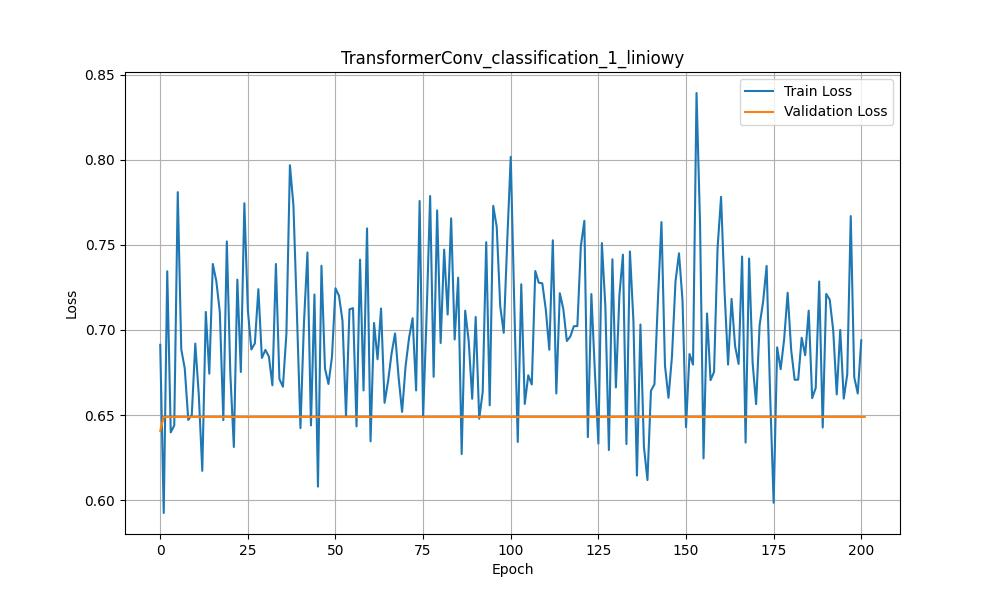
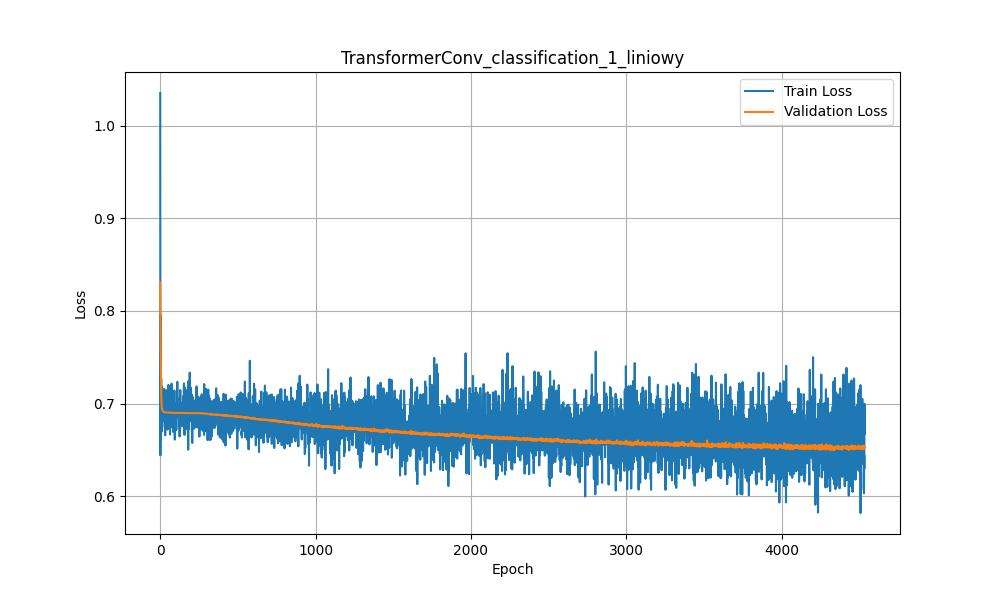
all

diff --git a/Zadanie 3/src/main.py b/Zadanie 3/src/main.py
@@ -25,10 +25,10 @@ MODELS_PATH = os.path.join(os.path.dirname(SRC_PATH), "models")
 
 DEVICE = torch.device('cuda' if torch.cuda.is_available() else 'cpu')
 
-BATCH_SIZE:     int   = 64
-LEARNING_RATE:  float = 1e-10
+BATCH_SIZE:     int   = 128
+LEARNING_RATE:  float = 1e-4
 TRAIN:          bool = True
-CONTINUE_TRAIN: bool = True
+CONTINUE_TRAIN: bool = False
 
 log: list = []
 
@@ -72,15 +72,37 @@ class FaceIDModel(pl.LightningModule):
         # print(f"Training: {y.shape}, y={y}")
         # print(f"Training y_hat: {y_hat.shape}, y_hat={y_hat}")
 
+        reg_lambda = 1e-4  # współczynnik regularyzacji L2
+
         if self.task_type == 'classification':
-            # y_hat = (y_hat > 0.5).long()
-            # print(f"Training classification y_hat: {y_hat.shape}, y_hat={y_hat}")
             y = y.squeeze().long()
-            loss = nn.CrossEntropyLoss()(y_hat, y)
+            ce_loss = nn.CrossEntropyLoss()(y_hat, y)
             
+            l2_reg = torch.tensor(0., device=y_hat.device)
+            for param in self.parameters():
+                l2_reg += torch.norm(param, 2)
+            
+            loss = ce_loss + reg_lambda * l2_reg
+
         elif self.task_type == 'regression':
             y = y.squeeze().float()
-            loss = nn.MSELoss()(y_hat, y)
+            mse_loss = nn.MSELoss()(y_hat, y)
+            
+            l2_reg = torch.tensor(0., device=y_hat.device)
+            for param in self.parameters():
+                l2_reg += torch.norm(param, 2)
+            
+            loss = mse_loss + reg_lambda * l2_reg
+
+        # if self.task_type == 'classification':
+        #     # y_hat = (y_hat > 0.5).long()
+        #     # print(f"Training classification y_hat: {y_hat.shape}, y_hat={y_hat}")
+        #     y = y.squeeze().long()
+        #     loss = nn.CrossEntropyLoss()(y_hat, y)
+            
+        # elif self.task_type == 'regression':
+        #     y = y.squeeze().float()
+        #     loss = nn.MSELoss()(y_hat, y)
 
         self.log("train_loss", loss, prog_bar=True)
     
@@ -133,17 +155,13 @@ def get_data(dataset_name, task_type):
     val_dataset = dataset[val_idx]
     test_dataset = dataset[test_idx]
 
-    # if task_type == "classification":
-    #     filtered_indices = [i for i, data in enumerate(train_dataset) if data.y.item() == 1]
-    #     train_dataset = train_dataset[filtered_indices]
-
     print(f"x type: {type(train_dataset[0].x)} | shape: {train_dataset[0].x.shape if isinstance(train_dataset[0].x, torch.Tensor) else 'Not a tensor'}")
     print(f"edge_index type: {type(train_dataset[0].edge_index)} | shape: {train_dataset[0].edge_index.shape if isinstance(train_dataset[0].edge_index, torch.Tensor) else 'Not a tensor'}")
 
     return (
-        GeoDataLoader(train_dataset, batch_size=BATCH_SIZE, shuffle=False, num_workers=6, persistent_workers=True),
-        GeoDataLoader(val_dataset, batch_size=BATCH_SIZE, num_workers=6, persistent_workers=True),
-        GeoDataLoader(test_dataset, batch_size=BATCH_SIZE, num_workers=6)
+        GeoDataLoader(train_dataset, batch_size=BATCH_SIZE, shuffle=True, num_workers=6, persistent_workers=True, pin_memory=True),
+        GeoDataLoader(val_dataset, batch_size=BATCH_SIZE, num_workers=6, persistent_workers=True, pin_memory=True),
+        GeoDataLoader(test_dataset, batch_size=BATCH_SIZE, num_workers=6, pin_memory=True)
     )
 
 def train_model(model, modelname):
@@ -196,8 +214,8 @@ def train_model(model, modelname):
 def main_transformer_conv() -> None:
 
     EMBEDDINGS:     list  = [1,2]
-    LINEAR_REGRESSION:   list  = [True, False]
-    MODEL_NAME:     list  = ["classification"]#, "regression"]
+    LINEAR_REGRESSION:   list  = [True,False]
+    MODEL_NAME:     list  = ["classification", "regression"]
 
     for model_name_id in MODEL_NAME:
         # loop_count: int = len(LINEAR_REGRESSION) if model_name_id == "regression" else 1
@@ -239,27 +257,34 @@ def main_transformer_conv() -> None:
                     model.eval()
                     model.freeze()
 
-                    # # Plot decision boundary for classification
-                    # if model_name_id == 'classification':
-                    #     generate_decision_boundary(test_loader, model, embed_id, saveModelName)
-                    # else:
-                    #     plot_regression_function(test_loader, model, embed_id, saveModelName)
+                    # Plot decision boundary for classification
+                    if model_name_id == 'classification':
+                        generate_decision_boundary(test_loader, model, embed_id, saveModelName)
+                    else:
+                        plot_regression_function(test_loader, model, embed_id, saveModelName)
 
                     all_predictions = []
                     all_targets = []
 
                     with torch.no_grad():
                         for batch in test_loader:
+                           
                             x, y = batch.x.to(device), batch.y.to(device)
                             edge_index = batch.edge_index.to(device)
 
-                            outputs = model(batch.to(device))
+                            # outputs = model(batch.to(device))
+
+                            embed_output = model.model.embed(batch.to(device))
+                            print(f"MODEL EMBED OUTPUS: {embed_output}")
+                            outputs = model.model.mlp(embed_output)
+                            print(f"MODEL MLP OUTPUS: {outputs}")
 
                             if model_name_id == 'classification':
                                 y = y.squeeze().long()
                                 loss = nn.CrossEntropyLoss()(outputs, y)
                                 probabilities = torch.softmax(outputs, dim=-1)
                                 predictions = probabilities.argmax(dim=-1)
+                                print(f"MODEL : {predictions}")
 
                             elif model_name_id == 'regression':
                                 y = y.squeeze().float()
@@ -275,6 +300,7 @@ def main_transformer_conv() -> None:
                     if model_name_id == 'classification':
                         test_accuracy = (all_predictions == all_targets).float().mean().item() * 100
                         print(f"Test Accuracy: {test_accuracy:.4f}%")
+                        log.append(f"Model: {saveModelName}, Acc: {test_accuracy:.4f}%\n")
 
                         # cm = confusion_matrix(all_targets, all_predictions)
                         # plt.figure(figsize=(8, 6))
@@ -290,12 +316,17 @@ def main_transformer_conv() -> None:
 
                         log.append(f"Model: {saveModelName}, MSE: {mse:.4f}\n")
 
+                    
+
                 model            = None
                 train_loader     = None
                 val_loader       = None
                 saveModelName    = None
                 test_loader      = None
                 model_core       = None
+
+    for element in log:
+        print(element)
 
 def main_gcn_conv() -> None:
 
@@ -430,16 +461,12 @@ def generate_decision_boundary(test_loader, model, embedding_size, model_name):
     all_labels = []
     with torch.no_grad():
         for batch in test_loader:
-            x = batch.x.to(DEVICE).float()
-            edge_index = batch.edge_index.to(DEVICE).long()
+
             batch_labels = batch.y.to(DEVICE)
-            batch_vector = batch.batch.to(DEVICE)
 
-            emb = model.model.conv1(x, edge_index)
-            emb = model.model.conv2(emb, edge_index)
-            emb = model.model.pool(emb, batch_vector)
+            embed_output = model.model.embed(batch.to(DEVICE))
 
-            all_features.append(emb.cpu())
+            all_features.append(embed_output.cpu())
             all_labels.append(batch_labels.cpu())
 
     all_features = torch.cat(all_features, dim=0).numpy()
@@ -460,14 +487,8 @@ def generate_decision_boundary(test_loader, model, embedding_size, model_name):
         grid_tensor = torch.tensor(grid_x, dtype=torch.float32).unsqueeze(1).to(DEVICE)
 
         with torch.no_grad():
-            fc1 = model.fc1 if hasattr(model, "fc1") else model.model.fc1
-            fc2 = model.fc2 if hasattr(model, "fc2") else getattr(model.model, "fc2", None)
-            relu = model.relu if hasattr(model, "relu") else model.model.relu
 
-            out = relu(fc1(grid_tensor))
-            if fc2 is not None:
-                out = fc2(out)
-            out = out
+            out = model.model.mlp(grid_tensor)
 
             # Obsługa różnych wariantów wyjścia modelu:
             if out.shape[1] == 1:
@@ -517,14 +538,17 @@ def generate_decision_boundary(test_loader, model, embedding_size, model_name):
 
         with torch.no_grad():
             # Wywołanie warstw FC modelu
-            fc1 = model.fc1 if hasattr(model, "fc1") else model.model.fc1
-            fc2 = model.fc2 if hasattr(model, "fc2") else getattr(model.model, "fc2", None)
-            relu = model.relu if hasattr(model, "relu") else model.model.relu
 
-            out = relu(fc1(grid_tensor))
-            if fc2 is not None:
-                out = fc2(out)
-            out = out
+            out = model.model.mlp(grid_tensor)
+
+            # fc1 = model.fc1 if hasattr(model, "fc1") else model.model.fc1
+            # fc2 = model.fc2 if hasattr(model, "fc2") else getattr(model.model, "fc2", None)
+            # relu = model.relu if hasattr(model, "relu") else model.model.relu
+
+            # out = relu(fc1(grid_tensor))
+            # if fc2 is not None:
+            #     out = fc2(out)
+            # out = out
 
             # Sprawdzamy wymiar wyjścia
             if out.shape[1] == 1:
@@ -533,6 +557,7 @@ def generate_decision_boundary(test_loader, model, embedding_size, model_name):
             else:
                 # Binary classification (2 wyjścia) lub multi-class
                 preds = torch.softmax(out, dim=-1).argmax(dim=-1)
+                print(preds)
 
             preds = preds.cpu().numpy()
 
@@ -566,15 +591,14 @@ def plot_regression_function(test_loader, model, embedding_size, model_name):
     all_targets = []
     with torch.no_grad():
         for batch in test_loader:
-            x = batch.x.to(DEVICE).float()
-            edge_index = batch.edge_index.to(DEVICE).long()
+
             targets = batch.y.to(DEVICE)
-            batch_vector = batch.batch.to(DEVICE)
-            emb = model.model.conv1(x, edge_index)
-            emb = model.model.conv2(emb, edge_index)
-            emb = model.model.pool(emb, batch_vector)
-            all_features.append(emb.cpu())
+           
+            embed_output = model.model.embed(batch.to(DEVICE))
+            
+            all_features.append(embed_output.cpu())
             all_targets.append(targets.cpu())
+
     all_features = torch.cat(all_features, dim=0).numpy()
     all_targets = torch.cat(all_targets, dim=0).numpy()
     if embedding_size > 2:
@@ -586,16 +610,13 @@ def plot_regression_function(test_loader, model, embedding_size, model_name):
         x_min, x_max = all_features[:,0].min()-margin, all_features[:,0].max()+margin
         grid_x = np.linspace(x_min, x_max, 300)
         grid_tensor = torch.tensor(grid_x, dtype=torch.float32).unsqueeze(1).to(DEVICE)
+
         with torch.no_grad():
-            fc1 = model.fc1 if hasattr(model, "fc1") else model.model.fc1
-            fc2 = model.fc2 if hasattr(model, "fc2") else getattr(model.model, "fc2", None)
-            relu = model.relu if hasattr(model, "relu") else model.model.relu
-            output_activation = model.output_activation if hasattr(model, "output_activation") else model.model.output_activation
-            out = relu(fc1(grid_tensor))
-            if fc2 is not None:
-                out = fc2(out)
-            out = output_activation(out)
+
+            out = model.model.mlp(grid_tensor)
             preds = out.squeeze().cpu().numpy()
+
+
         plt.figure(figsize=(8,6))
         plt.scatter(all_features[:,0], all_targets, color='blue', alpha=0.6, label='Test data')
         plt.plot(grid_x, preds, color='red', linewidth=2, label='Regression function')
@@ -605,6 +626,7 @@ def plot_regression_function(test_loader, model, embedding_size, model_name):
         plt.legend()
         plt.grid(True)
         plt.savefig(CSV_PATH + f"/Regression_Function_{model_name}_1D.jpg")
+        plt.show()
     elif all_features.shape[1] == 2:
         margin = 0.1
         x_min, x_max = all_features[:,0].min()-margin, all_features[:,0].max()+margin
@@ -615,15 +637,10 @@ def plot_regression_function(test_loader, model, embedding_size, model_name):
         grid_points = np.c_[xx.ravel(), yy.ravel()]
         grid_tensor = torch.tensor(grid_points, dtype=torch.float32).to(DEVICE)
         with torch.no_grad():
-            fc1 = model.fc1 if hasattr(model, "fc1") else model.model.fc1
-            fc2 = model.fc2 if hasattr(model, "fc2") else getattr(model.model, "fc2", None)
-            relu = model.relu if hasattr(model, "relu") else model.model.relu
-            output_activation = model.output_activation if hasattr(model, "output_activation") else model.model.output_activation
-            out = relu(fc1(grid_tensor))
-            if fc2 is not None:
-                out = fc2(out)
-            out = output_activation(out)
+
+            out = model.model.mlp(grid_tensor)
             preds = out.squeeze().cpu().numpy()
+
         preds = preds.reshape(xx.shape)
         from mpl_toolkits.mplot3d import Axes3D
         fig = plt.figure(figsize=(10,8))
@@ -636,10 +653,9 @@ def plot_regression_function(test_loader, model, embedding_size, model_name):
         ax.set_zlabel("Target")
         plt.legend()
         plt.savefig(CSV_PATH + f"/Regression_Function_{model_name}_2D.jpg")
+        plt.show()
 
 if __name__ == "__main__":
     
 #    main_gcn_conv()
    main_transformer_conv()
-
-   print(log)

diff --git a/Zadanie 3/src/model.py b/Zadanie 3/src/model.py
@@ -44,9 +44,43 @@ class GNNModelClassification(nn.Module):
         x = self.dropout(x)
 
         if self.fc2 is None:
-            x = self.relu(self.fc1(x))
+            x = self.fc1(x)
         else:
             x = self.relu(self.fc1(x))
+            x = self.dropout(x)
+            x = self.fc2(x)
+
+        return x
+
+    def embed(self, data):
+        x, edge_index, batch = data.x, data.edge_index, data.batch
+
+        print(f"x type: {type(x)} | shape: {x.shape if isinstance(x, torch.Tensor) else 'Not a tensor'}")
+        
+        if not isinstance(x, torch.Tensor):
+            raise ValueError("Input x should be a tensor")
+        
+        if len(x.shape) != 2 or x.shape[1] != 9:
+            raise ValueError(f"Unexpected shape of x. Expected [num_nodes, 9] but got {x.shape}")
+
+        x = x.float()
+
+        if edge_index is None or batch is None:
+            raise ValueError("Input data must contain edge_index and batch.")
+        
+        x = self.relu(self.conv1(x, edge_index))
+        x = self.relu(self.conv2(x, edge_index))
+        x = self.pool(x, batch)
+        x = self.dropout(x)
+        
+        return x
+    
+    def mlp(self, x_in):
+
+        if self.fc2 is None:
+            x = self.relu(self.fc1(x_in))
+        else:
+            x = self.relu(self.fc1(x_in))
             x = self.dropout(x)
             x = self.fc2(x)
 
@@ -96,6 +130,38 @@ class GNNModelRegression(nn.Module):
             x = self.relu(self.fc1(x))
         else:
             x = self.relu(self.fc1(x))
+            x = self.fc2(x)
+
+        return self.output_activation(x)
+
+    def embed(self, data):
+        x, edge_index, batch = data.x, data.edge_index, data.batch
+
+        print(f"x type: {type(x)} | shape: {x.shape if isinstance(x, torch.Tensor) else 'Not a tensor'}")
+        
+        if not isinstance(x, torch.Tensor):
+            raise ValueError("Input x should be a tensor")
+        
+        if len(x.shape) != 2 or x.shape[1] != 11:
+            raise ValueError(f"Unexpected shape of x. Expected [num_nodes, 11] but got {x.shape}")
+
+        x = x.float()
+
+        if edge_index is None or batch is None:
+            raise ValueError("Input data must contain edge_index and batch.")
+
+        x = self.relu(self.conv1(x, edge_index))
+        x = self.relu(self.conv2(x, edge_index))
+
+        x = self.pool(x, batch)
+
+        return x
+    
+    def mlp(self, x_in):
+        if self.fc2 is None:
+            x = self.fc1(x_in)
+        else:
+            x = self.relu(self.fc1(x_in))
             x = self.fc2(x)
 
         return self.output_activation(x)
